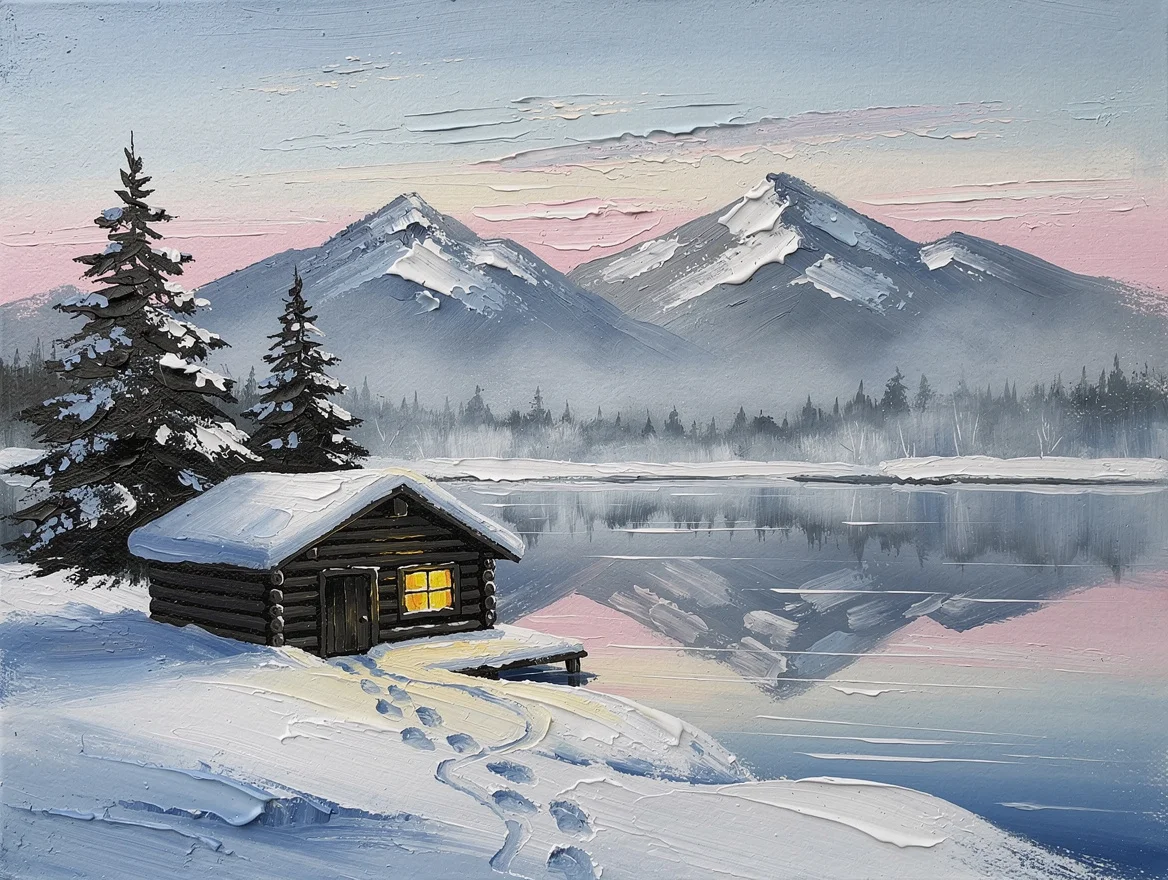
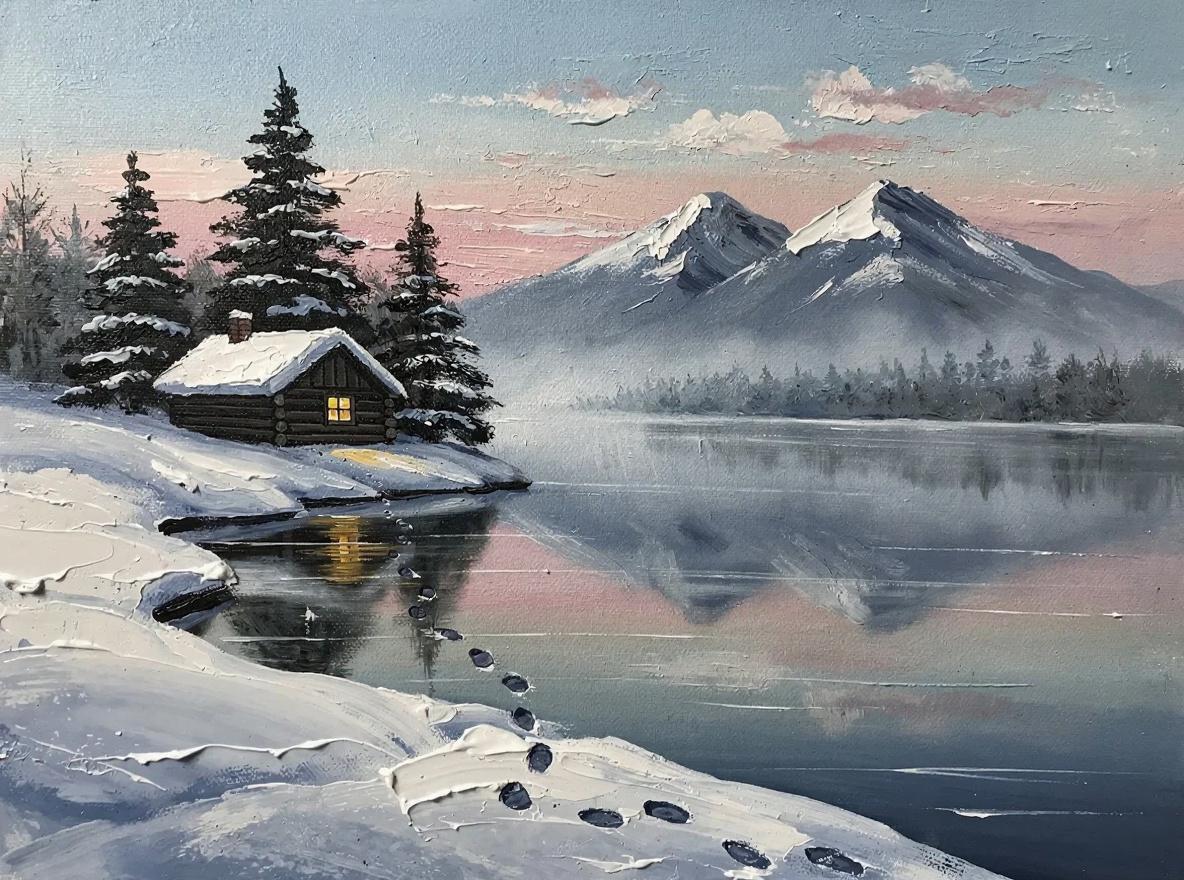
Add demo lesson pictures; strip invented signatures in step edits
Finished piece from Flux 2 Pro plus eleven after-step pictures from the
anchored-hop Kontext pipeline.

Claude-Session: https://claude.ai/code/session_01DTt4d7cPPoid4dSEfiDFGg

diff --git a/src/features/lessons/server/images.ts b/src/features/lessons/server/images.ts
@@ -78,7 +78,7 @@ export function stepPrompt(lesson: LessonContent, index: number, throughIndex: n
   const removed = lesson.steps.slice(index + 1, throughIndex + 1).map((s) => s.paintsIn)
   const remaining = lesson.steps[index]
   return (
-    `Remove ${removed.join('; and ')} from this oil painting. ` +
+    `Remove ${removed.join('; and ')}; and any signature, initials or lettering from this oil painting. ` +
     `Where they were, show only what was painted underneath, and any area that was never painted is smooth white primed canvas. ` +
     `What remains on the canvas: ${remaining.canvasAfter} ` +
     `Keep everything that remains exactly as it is: same composition, same brushwork, same colours.`

diff --git a/test/images.test.ts b/test/images.test.ts
@@ -23,5 +23,6 @@ describe('stepPrompt', () => {
     expect(p).not.toContain(DEMO_LESSON.steps[5].paintsIn)
     expect(p).toContain(DEMO_LESSON.steps[5].canvasAfter)
     expect(p).not.toMatch(/\bno signature\b/i)
+    expect(p).toMatch(/Remove .*any signature/)
   })
 })
